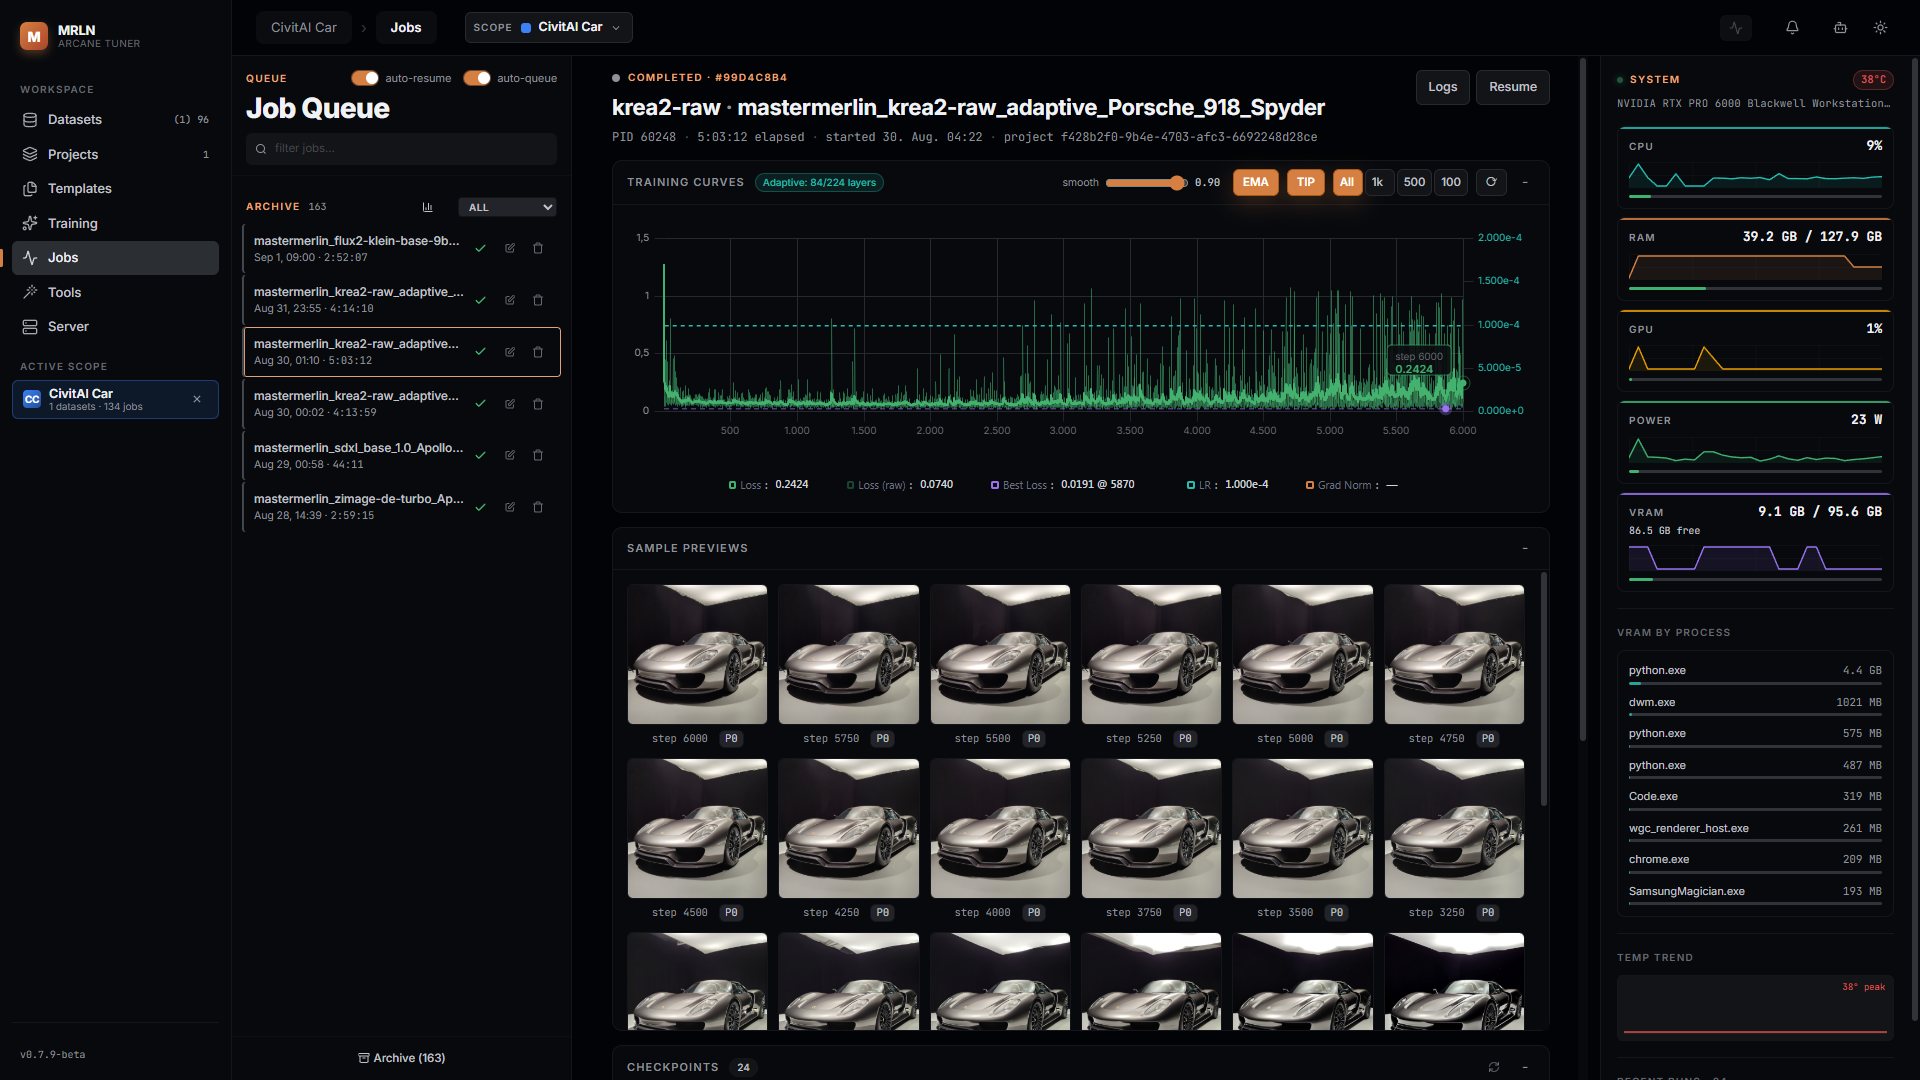
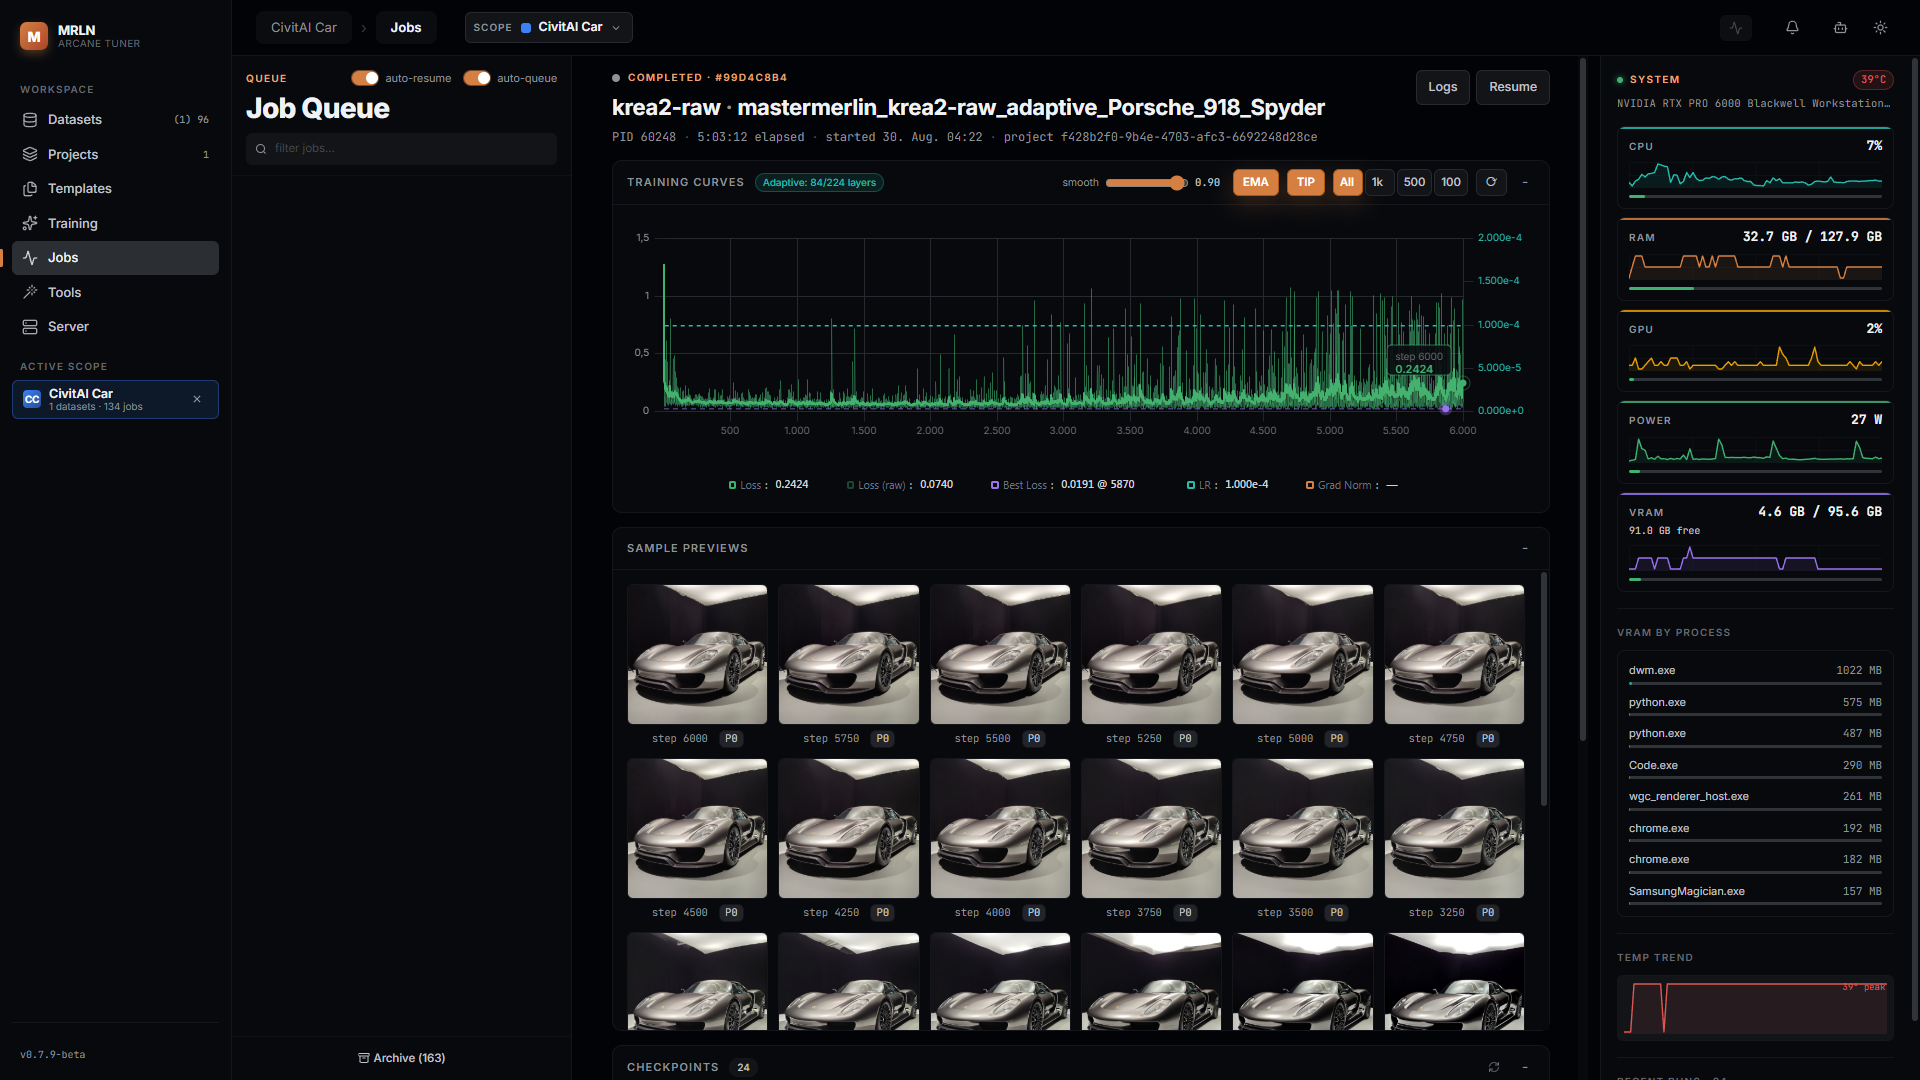
LANE-55: fold round-2 adversarial review (0 BLOCK, 2 MAJOR, 8 MINOR, 1 HYPOTHESIS)
- N1 (MAJOR): "Concepts & Triggerwords" was never a real TOC section (the
  CONCEPTS group only tags nested dataset-item fields, organizeGroups() never
  surfaces it) - fold the dataset-row prose into General Settings, drop the
  dead heading and TOC claim, fix the two Recipes call-outs.
- N2 (MAJOR): revert the Crop-all anchor sentence to "default: center" - the
  display-bug note described a bug now fixed by LANE-66 in this release.
- N3/N4: server-guide Models tile now says "gated ones included" (54 vs the
  Training dropdown's 51); drop the dev-process parenthetical on Restart.
- N5: "scopeLabel Global" becomes "the scope chip reads Global" (no code
  identifier in a public guide).
- N6: "per model family" becomes "per model definition" for training
  templates (templates-guide.md, README.md) - a family with two definitions
  needs two.
- N7: Neural architecture alt text and prose corrected to match the actual
  per-scope (Global included) preference persistence, not a per-run guess.
- N8: jobs-screen-overview.png re-shot - the archive row list (which leaked
  other CivitAI Car dataset names) is cropped out; no per-dataset archive
  filter exists in the UI, so this is the "element-scoped ABOVE the archive"
  fallback the fold instructions allow.
- N9: training-screen-overview.png re-shot, cropped above the live VRAM
  calibration warning banners and the "other GPU app" note - those are a
  live GPU-state artifact, not part of a clean screen, and can't be
[…]

diff --git a/docs/datasets-guide.md b/docs/datasets-guide.md
@@ -164,14 +164,19 @@ scroll position), not a separate route.
 
 ![Workspace — Browse mode, filter chips, filmstrip](images/workspace-browse-overview.png)
 
-The top bar shows the dataset's name, version (click the version tag to bump
-the MAJOR version; the pencil opens a manual version editor), and a
-"ready for training" count when the active model definition can tell you one.
-To its right: the project-membership pill, the active project/model-context
-switcher, and — always available regardless of mode — **Analyze**, **Cache**
-(disabled with "No cache data" until the dataset has been cached once) and
-**Rescan**. Edit-kind (paired) datasets also get a **Pairs** button (control/
-target pairing health and manual re-match).
+Above the grid (not pictured — the frame starts below it): a top bar with the
+dataset's name, version (click the version tag to bump the MAJOR version; the
+pencil opens a manual version editor), a "ready for training" count when the
+active model definition can tell you one, the project-membership pill, the
+active project/model-context switcher, and — always available regardless of
+mode — **Analyze**, **Cache** (disabled with "No cache data" until the
+dataset has been cached once) and **Rescan**. Edit-kind (paired) datasets
+also get a **Pairs** button (control/target pairing health and manual
+re-match).
+
+The bar the frame does show is the Browse-mode toolbar — mass-action
+buttons, filter chips, the Masked/Overlay toggles and Density — covered
+next.
 
 ### Browse / Details / Edit modes
 
@@ -446,12 +451,8 @@ both queued as a background task you can watch progress on:
   ![Harmonize confirm dialog](images/harmonize-confirm.png)
 
 - **Crop all** — crops every image the analysis pass flagged as needing it to
-  its target resolution, from a chosen anchor. The underlying default is
-  center, but the anchor dropdown itself opens showing **top-left** — a
-  display bug (the select renders before its options on first paint), not
-  what actually gets used unless you touch the dropdown. Pick the anchor
-  explicitly rather than trusting what's shown. This is the one action that
-  resizes pixels; Harmonize deliberately does not.
+  its target resolution, from a chosen anchor (default: center). This is the
+  one action that resizes pixels; Harmonize deliberately does not.
 
 Both dialogs say, in the same sentence, that the action **rewrites files on
 disk and cannot be undone** — read the message before confirming, since this
@@ -519,7 +520,7 @@ captioner over the whole set as a background task. It opens with two tabs,
 
 #### Generate
 
-![Mass caption modal — Generate tab, Local neural architecture (the default)](images/mass-caption-modal.png)
+![Mass caption modal — Generate tab, Local neural architecture](images/mass-caption-modal.png)
 
 **Caption strategy** picks the candidates: **Incremental** (only images that
 don't have the caption this run would write yet — with model-aware captions
@@ -532,10 +533,9 @@ active, it writes the per-definition variant (`captions/<definition_id>/`)
 instead, so switching models never touches another model's captions.
 
 **Neural architecture** — the engine that does the captioning — opens on
-**Local** for a fresh project; after that, the tab and model you last used
-*in this project* are remembered and win (the preference is saved per
-project, so a project that last captioned via an API provider reopens on
-API). Local is a model that runs on your own GPU, chosen from Youtu-VL,
+**Local** for a fresh project; after that, the tab and model you last
+selected in this scope (Global included) are remembered and win. Local is a
+model that runs on your own GPU, chosen from Youtu-VL,
 Florence-2, Qwen3 VL (with an instruct/thinking size picker, 4B–32B) or
 JoyCaption, each with its own parameter schema (temperature, top-p, max
 tokens, task/caption type, and — JoyCaption only — two dozen fine-grained

diff --git a/docs/training-guide.md b/docs/training-guide.md
@@ -37,10 +37,9 @@ to.
 
 Three columns: a left **table of contents** that jumps to each schema-driven
 group and tracks which one you're scrolled to (Template Selection is a fixed
-card above the groups and is not itself a TOC entry; a group like Concepts
-& Triggerwords or Expert Features only appears in the TOC when the current
-model definition actually declares fields for it — a model with no concept
-fields, for instance, simply has no such entry); a center **form** built
+card above the groups, not a TOC entry itself; a group like Expert Features
+or Video Settings appears in the TOC only when the current model definition
+declares fields for it); a center **form** built
 from the model definition's own schema — every model family declares the
 same base schema plus family-specific fields, so the form is identical in
 structure across families and only its options and defaults change; and a
@@ -88,25 +87,22 @@ characteristics than a diffusion model) and, when the model's weights come
 from a local path instead of the Hub, a **LOCAL**/**SAFETENSORS**/**OFFLINE**
 chip.
 
-### Concepts & Triggerwords
-
-Attach the datasets this run trains on. Each row is one dataset (scoped to
-the current project when you're inside one) with its own **caption prefix**,
-**caption dropout rate** (the chance a caption is dropped entirely, which
-enables classifier-free guidance at inference), a **repeat count**, caption
-toggles (use captions at all, and whether to prefer the model-aware caption
-variant), and masking toggles (include masked variants, optionally
-regenerating them with a chosen opacity and a minimum probability of keeping
-the original). Multiple datasets can be attached to the same run, each
-weighted independently. This is the same picker documented from the dataset
-side in the Datasets guide's "Move on" section.
-
 ## Tune what this run needs
 
 Below Model Selection and the VRAM Budget card, the rest of the form is
 generated from the schema in the same grouping the form shows:
 
-- **General Settings** — LoRA filename (**LoRA Prefix** / **Suffix** /
+- **General Settings** — the dataset rows this run trains on (one per
+  attached dataset, scoped to the current project when you're inside one):
+  a **caption prefix**, **caption dropout rate** (the chance a caption is
+  dropped entirely, which enables classifier-free guidance at inference), a
+  **repeat count**, caption toggles (use captions at all, and whether to
+  prefer the model-aware caption variant), and masking toggles (include
+  masked variants, optionally regenerating them with a chosen opacity and a
+  minimum probability of keeping the original) — multiple datasets can be
+  attached to the same run, each weighted independently; this is the same
+  picker documented from the dataset side in the Datasets guide's "Move on"
+  section. Also on this card: LoRA filename (**LoRA Prefix** / **Suffix** /
   **Name**, the name field supporting `{placeholder}` substitution), a
   global trigger word, output directory, and data toggles (latent caching,
   horizontal/vertical flip augmentation).
@@ -206,13 +202,13 @@ completes.
 ## Recipes
 
 **First run for a new model on a project.** Model Selection → pick the
-family and definition → Concepts & Triggerwords → attach the project's
+family and definition → General Settings → attach the project's
 dataset → check the VRAM estimate → Start. Once it's tuned the way you like,
 Template Selection → **Clone as New Template** so the next dataset for this
 client and model starts from it instead of a blank form.
 
 **Reuse a client's setup.** Template Selection → pick their template for this
-model → Concepts & Triggerwords → swap in the new dataset → Start. Nothing
+model → General Settings → swap in the new dataset → Start. Nothing
 else needs re-deciding — that's the same "a new dataset arrives" arc the
 Projects guide ends on.
 

diff --git a/docs/templates-guide.md b/docs/templates-guide.md
@@ -33,7 +33,7 @@ import.
 ## The four domains
 
 Every template belongs to exactly one domain, and belongs either to no project
-(**Global** — the `scopeLabel` "Global") or to one project:
+(**Global** — the scope chip reads "Global") or to one project:
 
 - **Caption** — a system prompt, a wildcard substitution value and a captioning
   model choice, for one of the caption backends (Florence-2, JoyCaption,
@@ -41,8 +41,9 @@ Every template belongs to exactly one domain, and belongs either to no project
 - **Mask** — SAM 3 or RemBG masking parameters.
 - **Training** — a full training config for one model definition
   (`definition_id`), scoped by both project **and** definition: a project can
-  hold a separate training template per model family it trains, which is what
-  lets one project "know how to train two different models" for one client.
+  hold a separate training template per model definition it trains, which is
+  what lets one project "know how to train two different models" for one
+  client (a family with two definitions needs two templates).
 - **Adaptive** — the Adaptive Layer Targeting knob dict (warm-up share, energy
   kept, floor, heat smoothing, measurement interval, freeze-vs-rebuild action).
   There are three read-only factory presets (**Conservative**, **Balanced**,
@@ -140,13 +141,13 @@ until you confirm the plan.
 **Set up a client's way of working, once.** Tune the caption system prompt and
 wildcard the way this client likes it, clone it as a template named for the
 client. Do the same for masking if they need it, and pick or branch an
-adaptive-targeting preset. Set up a training template per model family you
+adaptive-targeting preset. Set up a training template per model definition you
 train for them. All of it lives on the project from now on.
 
 **Reuse on the next dataset.** A new dataset from the same client lands in the
 same project. The caption template, masking template, training templates (one
-per model) and adaptive preset are already there — nothing to re-configure, you
-just start captioning and training.
+per model definition) and adaptive preset are already there — nothing to
+re-configure, you just start captioning and training.
 
 **Move a template to another machine.** Export it (or "Export all" filtered to
 one project) from `/templates`, carry the `.template.zip`, and import it on the

diff --git a/README.md b/README.md
@@ -420,7 +420,7 @@ Group the datasets, templates and job history for one LoRA effort so you stop re
 ---
 
 ### 🧩 Templates
-A saved configuration you reuse instead of re-deciding it every time — a caption system prompt, masking parameters, a training config per model family, or a set of adaptive-targeting knobs. Created where you tune it (the Datasets tab's caption/masking settings, the Training screen's Template Selection and Adaptive Layer Targeting cards) and listed together on one `/templates` screen, Global or scoped to a project, with per-row edit / edit-JSON / branch / delete plus export and import (single template or a filtered bundle, with an import plan that flags name clashes and missing model definitions first). See [`docs/templates-guide.md`](docs/templates-guide.md).
+A saved configuration you reuse instead of re-deciding it every time — a caption system prompt, masking parameters, a training config per model definition, or a set of adaptive-targeting knobs. Created where you tune it (the Datasets tab's caption/masking settings, the Training screen's Template Selection and Adaptive Layer Targeting cards) and listed together on one `/templates` screen, Global or scoped to a project, with per-row edit / edit-JSON / branch / delete plus export and import (single template or a filtered bundle, with an import plan that flags name clashes and missing model definitions first). See [`docs/templates-guide.md`](docs/templates-guide.md).
 
 ---
 
@@ -582,7 +582,7 @@ Conservative / Balanced / Aggressive presets are fully editable and save as your
 - **Text embedding caching**: Cache TE outputs for all captions, unload TE from VRAM
 
 #### Template System
-Save, load, and manage training configurations as templates per model family. Auto-save on job creation.
+Save, load, and manage training configurations as templates per model definition. Auto-save on job creation.
 
 #### Checkpointing & Resume
 Full checkpoint support including LoRA weights, optimizer state, scheduler, GradScaler, EMA shadow weights, and latent/embedding cache manifests. Resume training with selective cache re-use.

diff --git a/docs/server-guide.md b/docs/server-guide.md
@@ -9,8 +9,8 @@ dataset or a job — it's the one screen that's about the app, not your data.
 
 - **Read live health** — status (from the WebSocket connection itself, so it
   can't show a stale "Healthy" while the backend is actually down), process
-  uptime, how many model definitions are loaded, and how many jobs are
-  currently running or paused.
+  uptime, how many model definitions are registered (gated ones included),
+  and how many jobs are currently running or paused.
 - **Restart the backend** from a confirm dialog, with a global lock overlay
   while it comes back up.
 - **Check for and apply an in-app update** — pulls the latest code, rebuilds
@@ -51,16 +51,15 @@ lines):
   connection.
 - **Uptime** — this backend process's own uptime, ticking forward locally
   between fetches.
-- **Models** — how many model definitions the backend has loaded.
+- **Models** — every registered model definition, gated ones included — so
+  54 today, three more than the Training screen's dropdown lists.
 - **Active Jobs** — running plus paused jobs, across every project.
 
 ## Restart, updates
 
 **Restart server** asks for confirmation, then restarts the backend process
 and shows a global lock overlay until it's back — it stays locked even if
-you navigate away from this tab while it's restarting. (The exact restart
-mechanics are being reworked separately; this guide only covers what the
-button does from your side.)
+you navigate away from this tab while it's restarting.
 
 When the app detects it's behind the repo, **Check for updates** / **Update &
 restart** appear in the header, and a banner tracks the update through
